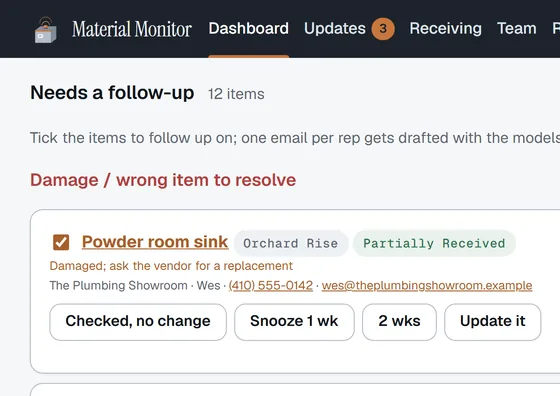
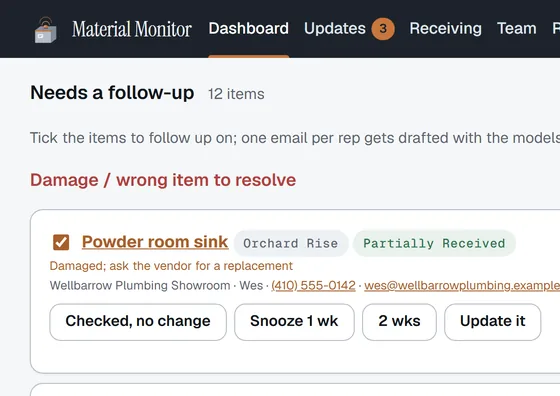
Material Monitor page: every picture from the final site-shots-2 run
The product round re-shot site-shots-2 with four vendor and maker
names changed after a real-business search; all figures and the
share image now come from that run.

Changed region(s): [[0.0911, 0.697, 1.0, 0.7576]]

diff --git a/materialmonitor.html b/materialmonitor.html
@@ -956,15 +956,15 @@ body.mm .bp-grid {
 <!-- MM-FIG tour-5 START. Generated by scripts/mm_site_images.py from site-shots-2.
      wide: console/full/follow-up.png, x 84 to 1332, y 204 to 984 (1248 x 780)
        pin 1  first_draft_vendor_and_rep (left) box 69,77 1134x25 -> left 5.529% top 11.513%, pushed -18px 0px
-       pin 2  first_draft_body (left) box 69,176 1134x382 -> left 5.529% top 47.064%, pushed -18px 0px
-       pin 3  open_in_outlook (left) box 69,589 160x40 -> left 5.529% top 78.064%, pushed -18px 0px
-     narrow: console/full/follow-up.png, x 84 to 700, y 244 to 857 (616 x 613)
-       pin 1  first_draft_vendor_and_rep (left) box 69,37 1134x25 -> left 11.201% top 8.124%, pushed -18px 0px
-       pin 2  first_draft_body (left) box 69,136 1134x382 -> left 11.201% top 53.361%, pushed -18px 0px
-       pin 3  open_in_outlook (left) box 69,549 160x40 -> left 11.201% top 92.806%, pushed -18px 0px
+       pin 2  first_draft_body (left) box 69,176 1134x286 -> left 5.529% top 40.910%, pushed -18px 0px
+       pin 3  open_in_outlook (left) box 69,493 160x40 -> left 5.529% top 65.756%, pushed -18px 0px
+     narrow: console/full/follow-up.png, x 84 to 700, y 244 to 761 (616 x 517)
+       pin 1  first_draft_vendor_and_rep (left) box 69,37 1134x25 -> left 11.201% top 9.632%, pushed -18px 0px
+       pin 2  first_draft_body (left) box 69,136 1134x286 -> left 11.201% top 53.985%, pushed -18px 0px
+       pin 3  open_in_outlook (left) box 69,453 160x40 -> left 11.201% top 91.470%, pushed -18px 0px
      To move a pin or a crop, change it in the script and run it again; do not edit the numbers here. -->
-<div class="shot two" style="--x1:5.529%;--y1:11.513%;--dx1:-18px;--dy1:0px;--x2:5.529%;--y2:47.064%;--dx2:-18px;--dy2:0px;--x3:5.529%;--y3:78.064%;--dx3:-18px;--dy3:0px;--ratio:0.6250;--nx1:11.201%;--ny1:8.124%;--ndx1:-18px;--ndy1:0px;--nx2:11.201%;--ny2:53.361%;--ndx2:-18px;--ndy2:0px;--nx3:11.201%;--ny3:92.806%;--ndx3:-18px;--ndy3:0px">
-<div class="pic"><picture><source media="(max-width: 699px)" srcset="assets/screens/materialmonitor/mm-tour-follow-up-n-560.webp 560w, assets/screens/materialmonitor/mm-tour-follow-up-n-1120.webp 1120w" sizes="100vw" width="560" height="557"><img class="shot-img" src="assets/screens/materialmonitor/mm-tour-follow-up-980.webp" srcset="assets/screens/materialmonitor/mm-tour-follow-up-980.webp 980w, assets/screens/materialmonitor/mm-tour-follow-up-1960.webp 1960w" sizes="(min-width: 1320px) calc(50vw + 256px), (min-width: 1100px) calc(100vw - 404px), (min-width: 700px) min(960px, calc(100vw - 48px)), 100vw" width="980" height="612" loading="lazy" decoding="async" alt="A follow-up email written for one rep with sample data: the open items with model numbers, quantities and order dates, and the button that opens it in Outlook. A sample company."></picture>
+<div class="shot two" style="--x1:5.529%;--y1:11.513%;--dx1:-18px;--dy1:0px;--x2:5.529%;--y2:40.910%;--dx2:-18px;--dy2:0px;--x3:5.529%;--y3:65.756%;--dx3:-18px;--dy3:0px;--ratio:0.6250;--nx1:11.201%;--ny1:9.632%;--ndx1:-18px;--ndy1:0px;--nx2:11.201%;--ny2:53.985%;--ndx2:-18px;--ndy2:0px;--nx3:11.201%;--ny3:91.470%;--ndx3:-18px;--ndy3:0px">
+<div class="pic"><picture><source media="(max-width: 699px)" srcset="assets/screens/materialmonitor/mm-tour-follow-up-n-560.webp 560w, assets/screens/materialmonitor/mm-tour-follow-up-n-1120.webp 1120w" sizes="100vw" width="560" height="470"><img class="shot-img" src="assets/screens/materialmonitor/mm-tour-follow-up-980.webp" srcset="assets/screens/materialmonitor/mm-tour-follow-up-980.webp 980w, assets/screens/materialmonitor/mm-tour-follow-up-1960.webp 1960w" sizes="(min-width: 1320px) calc(50vw + 256px), (min-width: 1100px) calc(100vw - 404px), (min-width: 700px) min(960px, calc(100vw - 48px)), 100vw" width="980" height="612" loading="lazy" decoding="async" alt="Follow-up emails written for the reps with sample data, one per rep: each open order with its model number, how many arrived and the order date, and the button that opens it in Outlook. A sample company."></picture>
 <!-- MM-FIG tour-5 END -->
                   <span class="pin p1" aria-hidden="true">1</span>
                   <span class="pin p2" aria-hidden="true">2</span>

diff --git a/scripts/mm_site_images.py b/scripts/mm_site_images.py
@@ -224,8 +224,9 @@ FIGURES = [
         "id": "tour-5",
         "source": "console:follow-up",
         "out": "mm-tour-follow-up",
-        "alt": ("A follow-up email written for one rep with sample data: the open items with model "
-                "numbers, quantities and order dates, and the button that opens it in Outlook. A sample company."),
+        "alt": ("Follow-up emails written for the reps with sample data, one per rep: each open order with its "
+                "model number, how many arrived and the order date, and the button that opens it in Outlook. "
+                "A sample company."),
         "pins": [("first_draft_vendor_and_rep", "left"), ("first_draft_body", "left"),
                  ("open_in_outlook", "left")],
         "crops": {
